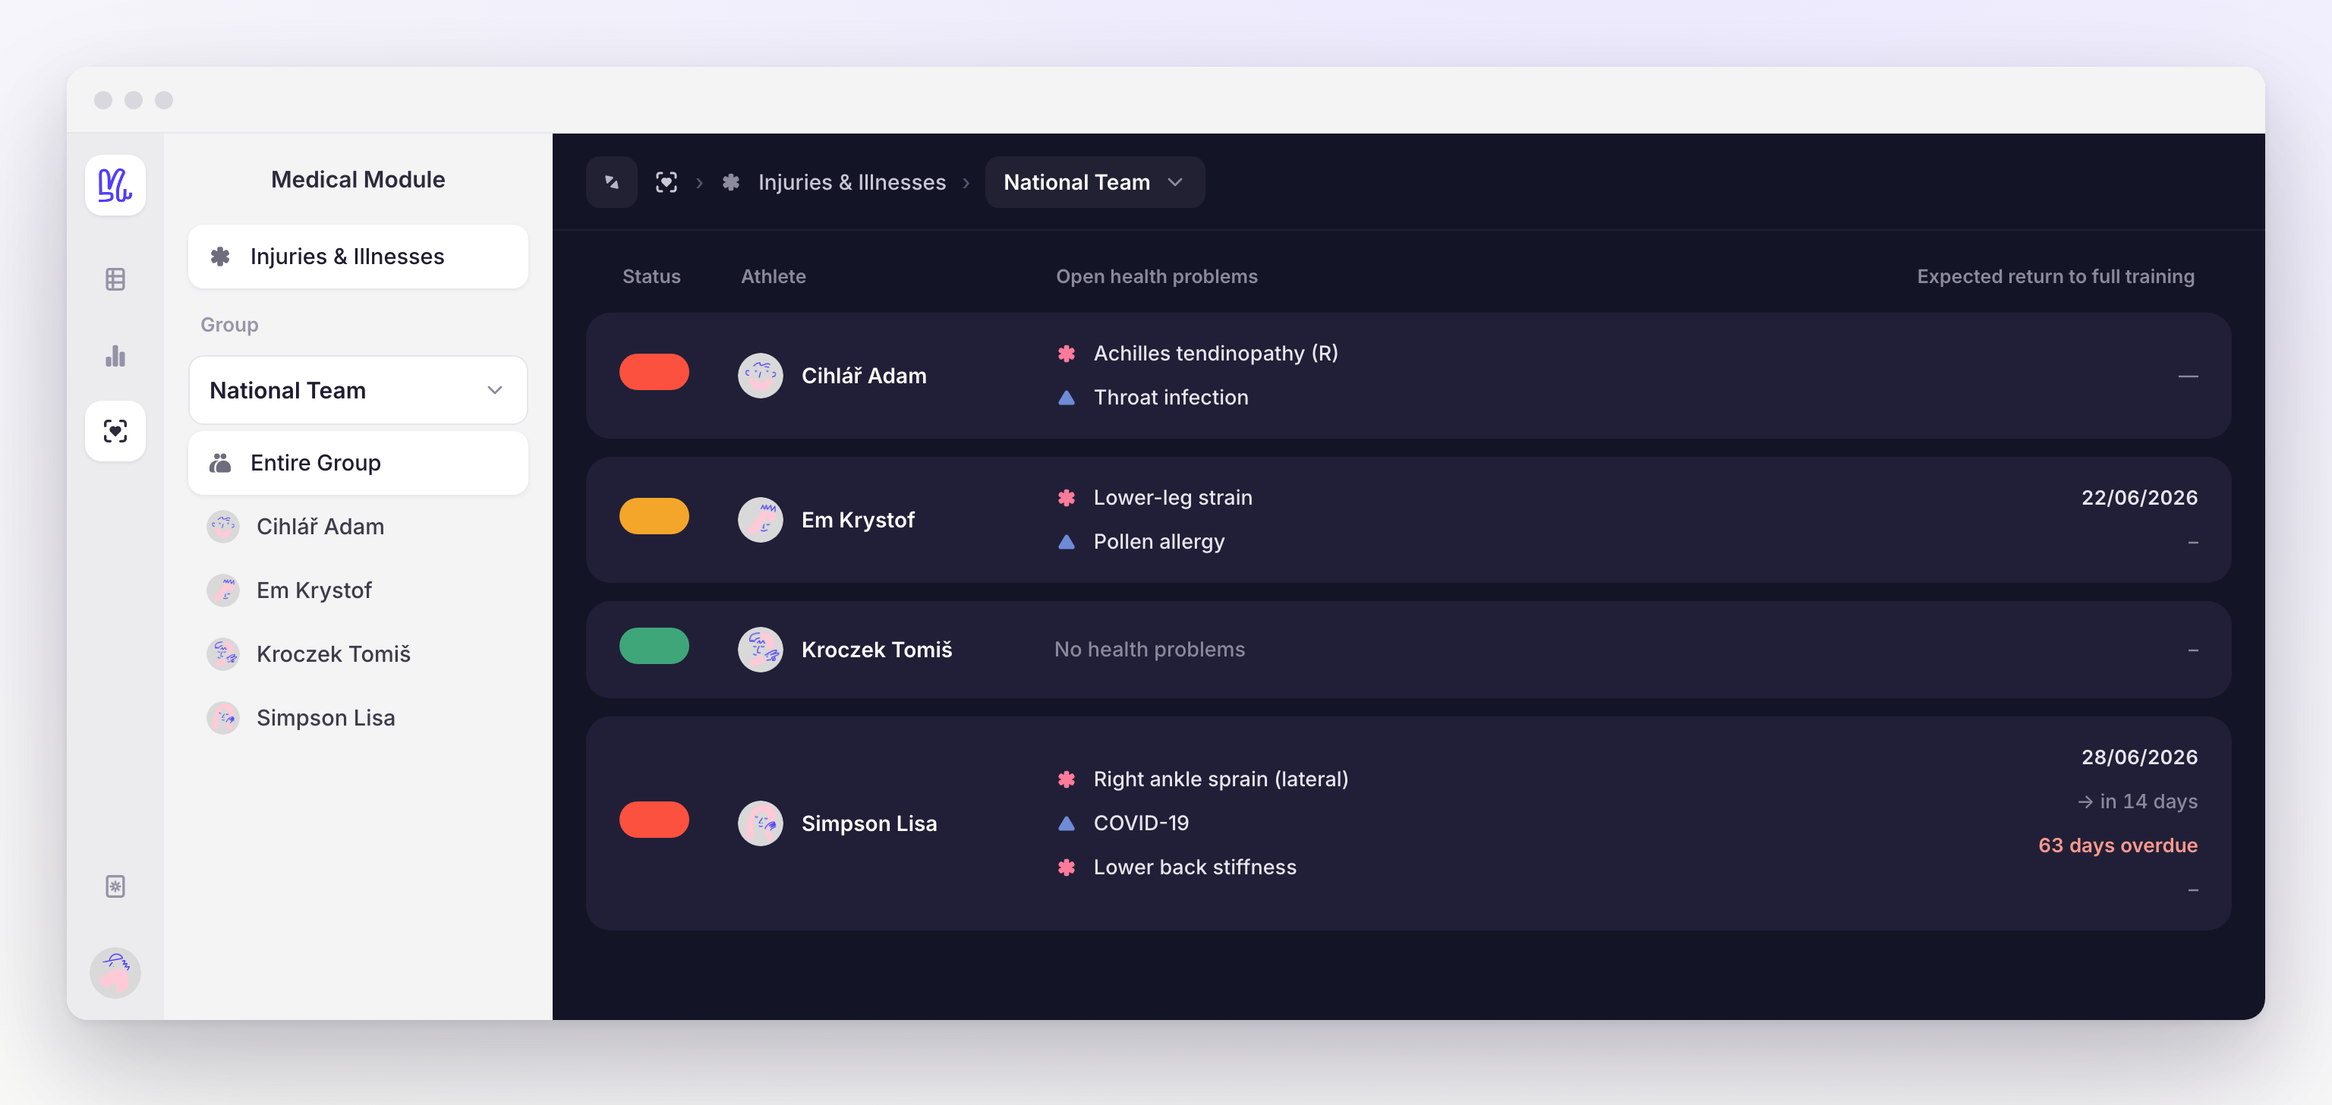
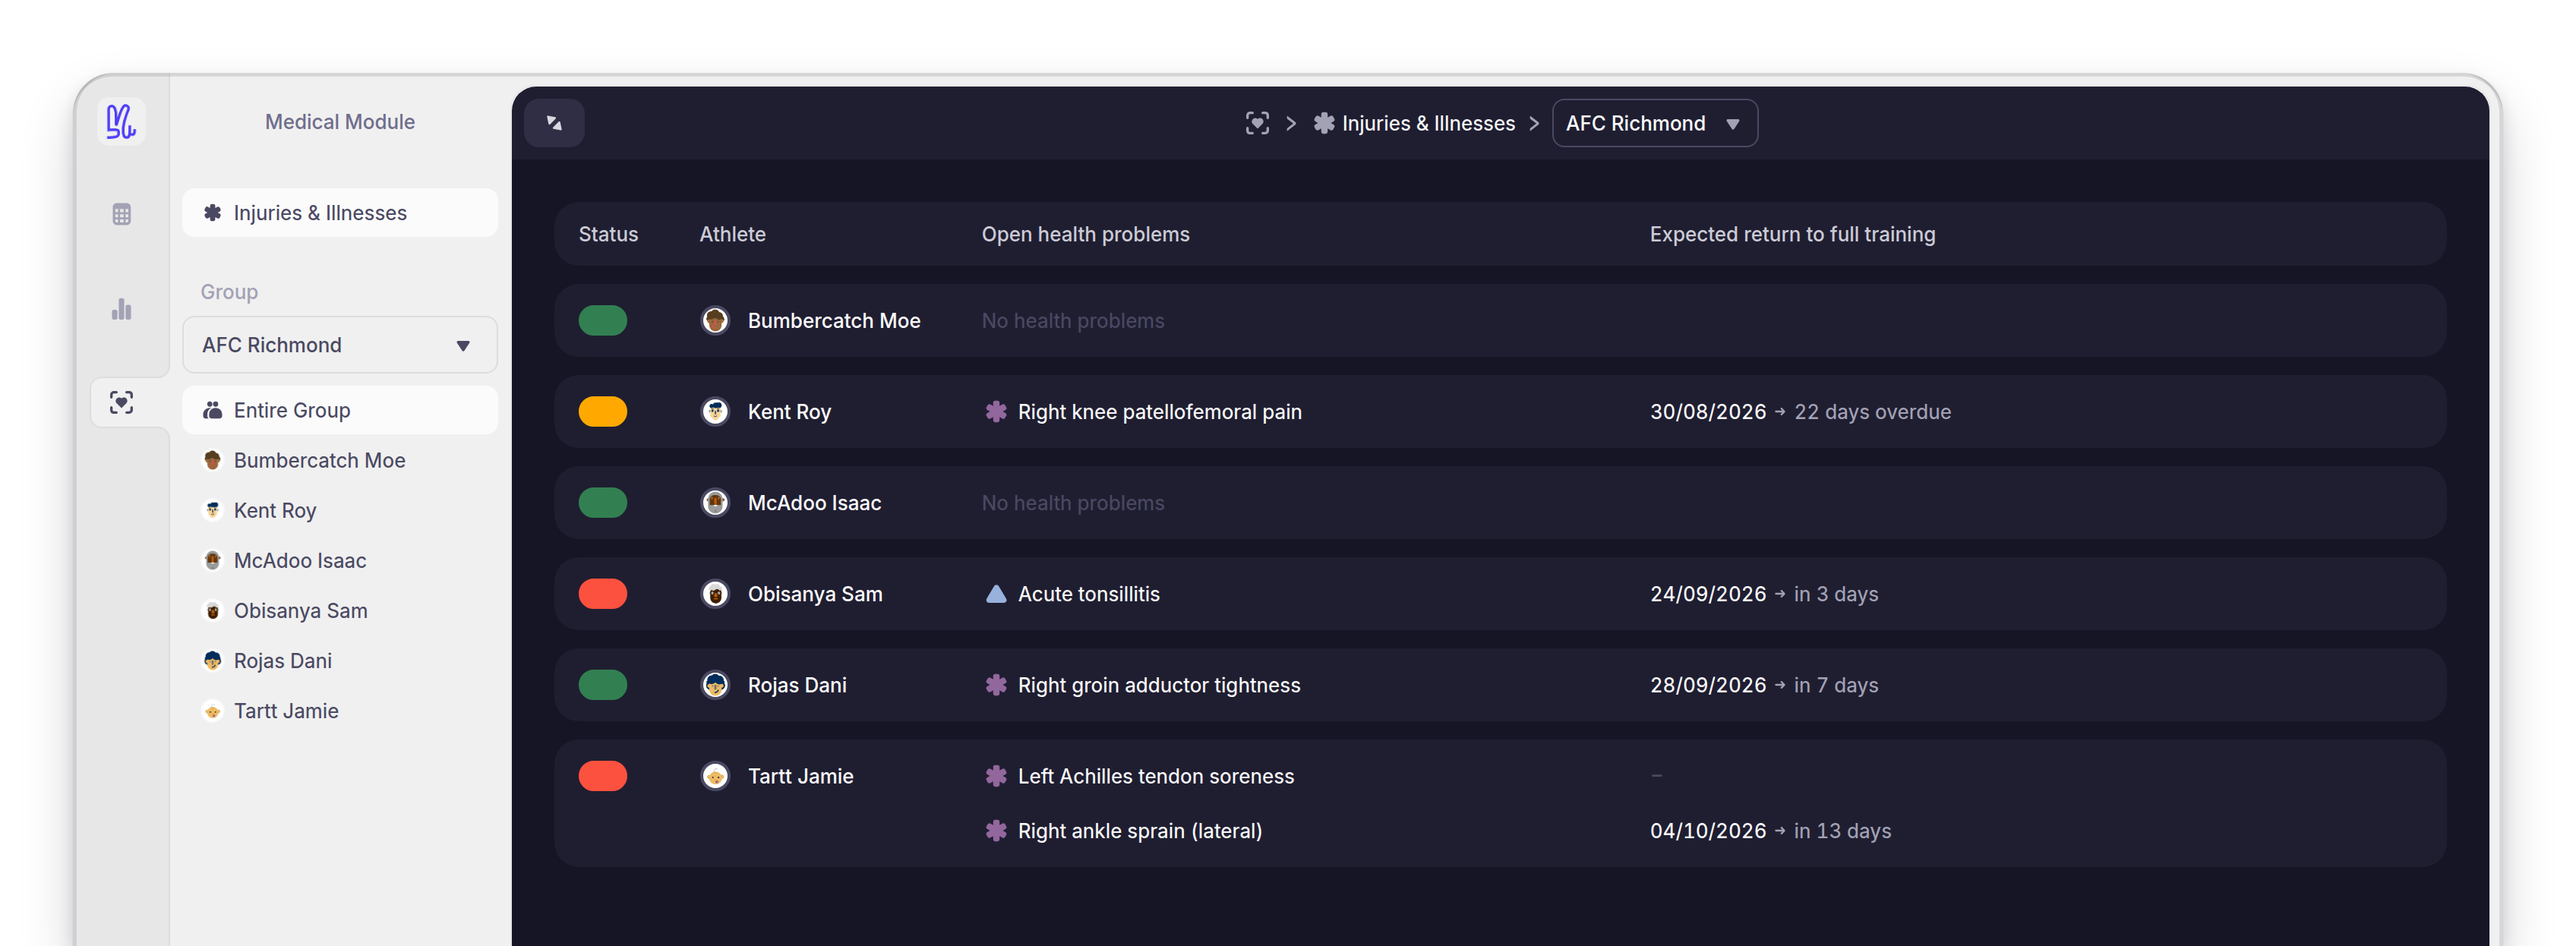
Medical: shoot the page on AFC Richmond, and retire the mockups
Six figures, all real captures of the live app on the seeded squad, replacing
the two rendered mockups that still showed the retired National Team / Simpson
Lisa cast and were opaque RGB rather than the pipeline's transparent-window
exports.

The hero is the filled record — the ankle sprain with its properties, dates,
five circumstances, note, and the OSIICS AL1 diagnosis carrying the auto-tags
right/ankle/ligament — not the group overview. The overview is six rows in a
1600x1000 window, so as a full-window hero it would have been two thirds empty
dark space; as a top-cropped banner in its own section it reads far better,
and it earns its place by showing the whole point of the screen at once: green
and amber and red, Roy 22 days overdue, Jamie carrying the worse of his two
problems, two athletes clear. The diagnosis picker is the figure that makes
the OSIICS section land — searching "ankle sprain" in plain words and getting
ALJ, AL1, AL2 and ALM back, each with its code.

The athlete view is Jamie's own session with a record open: the point is the
sidebar that has no group dropdown, no athlete list and no Entire Group, but a
left crop of that is a tall strip of empty sidebar, so it keeps the window.

Checked as the reader sees it, both themes, and click-to-zoom is crisp (0.70
upscale). Every alt text names what its callouts say, since callout text is
pixels to a screen reader.

Claude-Session: https://claude.ai/code/session_013Pk8HFNmpF1QcWm1cmW39u

diff --git a/docs-guide/module-notes/medical-module.md b/docs-guide/module-notes/medical-module.md
@@ -229,44 +229,36 @@ record (same detail layout, scoped to self; edit where permitted).
 - **→ Planning:** expected-return dates inform what load an athlete can take.
 - Records accumulate → recurring-problem visibility (prevention, not just availability).
 
-## 13. Shot list (images for the docs page)
+## 13. Shot list (images for the docs page) — SHOT 2026-09-21
 
-**Re-cast 2026-09-20 to AFC Richmond** (Ted Lasso coach · Jamie Tartt athlete — see
-`docs-guide/visuals/demo-cast.md`). The two images currently on the page (`overview.png`,
-`record.png`) are **rendered mockups on the retired National Team / Simpson Lisa data**, and
-they are opaque RGB PNGs rather than the transparent-window exports the pipeline produces —
-both are replaced by real captures, not touched up.
+Six figures, all real captures of the live app on the seeded **AFC Richmond** data (coach
+*Ted Lasso*, athlete *Jamie Tartt*). The two rendered mockups that were on the page (old
+National Team / Simpson Lisa, opaque RGB rather than the pipeline's transparent-window
+exports) are replaced, not retouched.
 
-Everything below is specified in code and runnable the moment a session exists:
-`tooling/seed/medical.mjs` (data) + `seed/medical-lib.mjs` (driver) ·
-`tooling/capture/medical.mjs` (click paths, plus `RECON=1` to dump the real `data-cy` hooks) ·
-`tooling/figures/medical.mjs` (anchors, crops, callouts). The seed plan in prose is
-`docs-guide/visuals/demo-data/medical-afc-richmond.md`.
-
-| # | Figure key | Screen / state | Anchor · crop | Callouts | Placed in the page at | Role |
+| # | Figure key | What it shows | Anchor · crop | Callouts | Placed at | Role |
 |---|---|---|---|---|---|---|
-| 1 | `overview` | Entire Group overview (DARK) — Jamie red with two open problems, Roy amber and 21 days overdue, Sam's illness, Dani green, Isaac and Moe clear | `center` · whole window · **hero** | none — the pills already mean something | the lead figure, `<Frame variant="marketing">` | coach |
-| 2 | `record` | The rich open record: Jamie's right ankle sprain, all sections filled | `center` · whole window | none — the prose beside it names the parts | end of *What a record holds* | coach |
-| 3 | `new-record` | A record the moment it's created, still empty | `right` · 2100×2000 · `bleed="left"` | 5 — name, properties, key dates, diagnosis, tool bar | *Log an injury or illness* | coach |
-| 4 | `quick-entry` | The New quick entry modal | `center` · whole window | 4 — entry type, training limitation, files, Save | *Log an injury or illness* (with the `<Steps>`) | coach |
-| 5 | `diagnosis-picker` | The OSIICS picker mid-search ("ankle sprain" typed, results showing) | `right` · 2000×2000 · `bleed="left"` | 3 — search the codelist, OSIICS code, side | *Code the diagnosis* — the figure that carries the OSIICS point | coach |
-| 6 | `record-list` | Jamie's Open (2) / Closed (4) lists | `left` · 1900×2000 · `bleed="right"` | none | *Close a record, and the history it leaves* | coach |
-| 7 | `athlete-view` | Jamie's own session — his records, no group switcher | `left` · 1900×2000 · `bleed="right"` | none | *What athletes see* | athlete |
+| 1 | `record` | Jamie's open ankle sprain: properties, key dates, all five circumstances, note, OSIICS `AL1` with its auto-tags, and the Open/Closed list beside it | `center` · whole window · **hero**, `variant="marketing"` | none — the prose names every part | the lead figure | coach |
+| 2 | `overview` | Entire Group (DARK): green/amber/red spread, Roy 22 days overdue, Jamie's two problems, two clear rows | `top` · 3200×1150 · `bleed="bottom"` | none — the pills already mean something | *Who can train today* | coach |
+| 3 | `quick-entry` | The New entry modal | `bottom-right` · 2100×1300 · `bleed="left top"` | 3 — entry type, training limitation, Save | *Log an injury or illness* | coach |
+| 4 | `diagnosis-picker` | The OSIICS search on "ankle sprain", results showing ALJ / AL1 / AL2 / ALM | `right` · 2000×2000 · `bleed="left"` | 3 — OSIICS code, search in plain words, side | *Code the diagnosis* | coach |
+| 5 | `record-list` | Jamie's Open (2) / Closed (4) with closure dates and checks | `left` · 1400×2000 · `bleed="right"` | none | *Close a record, and the history it leaves* | coach |
+| 6 | `athlete-view` | Jamie's own session — no group dropdown, no athlete list, no Entire Group | `center` · whole window | none | *What athletes see* | athlete |
 
-**Captured but deliberately not published:** `create-picker` (a two-item menu the `<Steps>`
-already describe) and `circumstances-picker` (per-instance codelists — one team's values would
-read as the product's). Both raws are shot, so either can be added by putting its key back in
-`figures/medical.mjs`.
+**Captured but deliberately not published** (reasons in the footer of `figures/medical.mjs`):
+`new-record` (an empty record — the way in here is quick entry, and the hero already shows a
+filled one), `create-picker` (a two-item menu the Steps describe), `circumstances-picker`
+(per-instance codelists; one team's values would read as the product's).
 
-**Open decision to make on the first real raw:** figure 1 is the only hero in the docs that is
-a **dark** screen on the marketing backdrop's indigo. If it reads badly, move `hero: true` to
-`record` and drop `variant="marketing"` from the MDX.
+**Decisions worth keeping:** the hero is the *record*, not the group overview — the overview
+is a six-row table in a 1600×1000 window, so a full-window hero would be two thirds empty
+dark space, and it works far better as a top-cropped banner in its own section. The athlete
+view is the whole window with a record open, because a left crop of "the sidebar that hasn't
+got a group switcher" is a tall strip of nothing.
 
 ## 14. Open questions / TODO(verify)
 - **Which OSIICS version the picker ships.** Version 16 (1 Nov 2025) is the current release;
   `AL1` and the ankle neighbours match it, but that proves nothing about the version. Ask.
-- **Whether the closure date can be edited** after the app stamps it on close. The seeder
-  tries and logs if it can't; the demo set's "closed months ago" dates depend on it.
 - **Whether "Open full detail" in quick entry creates the record**, or only opens it once
   Saved. The page carries a TODO on this.
 - **Whether a closed record can be reopened.** The 2026 changelog *yollanda-starts-the
@@ -275,14 +267,22 @@ a **dark** screen on the marketing backdrop's indigo. If it reads badly, move `h
 - **Whether anything aggregates diagnosis codes** into counts or a report. The docs page
   argues that coding makes records countable; nothing observed actually counts them.
 - **Files** upload: accepted file types / size limits.
-- **The in-app "OSIICS code list" link points at a Google Sheets copy**, not johnorchard.com.
-  Worth asking whether that is deliberate.
-- **Whether athletes see the module on AFC Richmond** — needs Jamie Tartt's session; the
-  page documents both ends of the permission model, so the figure is the open item, not
-  the prose.
 - *Resolved:* quick-entry fields → §6.4 · illness vs injury = diagnosis codelist filtered by
   type → §4 · athlete permissions = genuinely instance-dependent → §3 · Closure date → §6.3 ·
   **Circumstances value lists → §4 (read live off AFC Richmond 2026-09-20)**.
+- *Resolved 2026-09-21, live:*
+  - **The closure date is editable** — the seeder set real historical closure dates on four
+    closed records and they held; the record list shows them on the closed cards.
+  - **An illness record has no Side** on its diagnosis. The select simply isn't rendered, so
+    a side is an injury-only concept. (Cost two diagnoses on the first seeding pass.)
+  - **Athletes on AFC Richmond have the fully-enabled end of the permission model** —
+    Jamie Tartt's own session shows his six records and nothing else, a sidebar that stops at
+    "Injuries & Illnesses" with no Group section, and **both create affordances** (Add record
+    and New quick entry). So this instance is the "athlete can see and edit their own" case.
+  - **The in-app "OSIICS code list" link goes to a Google Sheets copy of the full codelist on
+    purpose** (product owner, 2026-09-21). The *docs* acknowledge OSIICS and link
+    johnorchard.com as the source of the standard; the app's link is the working codelist.
+    Not a bug — don't "fix" it.
 
 ## 15. Source log
 Observed **live** on 2026-06-14, National Team / Simpson Lisa, both coach (Bart Simpson)

diff --git a/docs-guide/visuals/_VISUAL-TODOS.md b/docs-guide/visuals/_VISUAL-TODOS.md
@@ -32,28 +32,22 @@
 ---
 <!-- entries appended per module during live verification -->
 
-## medical — REDO, queued 2026-09-20
-> The two images on the page are **rendered mockups on the retired National Team / Simpson
-> Lisa cast** (opaque RGB, not the pipeline's transparent-window exports), so they are
-> replaced rather than kept. Everything is specified in code and runs as soon as a session
-> exists: `tooling/seed/medical.mjs` + `seed/medical-lib.mjs` (data) · `capture/medical.mjs`
-> (click paths; `RECON=1 node capture.mjs medical` first, to dump the real `data-cy` hooks) ·
-> `figures/medical.mjs` (anchors, crops, callouts — **every callout `at` is a placeholder
-> until re-measured with `measure.mjs`**). Seed plan in prose:
-> [`demo-data/medical-afc-richmond.md`](demo-data/medical-afc-richmond.md); the full shot list
-> with page placement is §13 of `module-notes/medical-module.md`.
->
-> **Blocked on:** a logged-in session for Ted Lasso (coach) and Jamie Tartt (athlete), and the
-> go-ahead to write the seed data into AFC Richmond.
+## medical — DONE (2026-09-21)
+> Shot on the live app from the seeded AFC Richmond data, coach **Ted Lasso** and athlete
+> **Jamie Tartt**. The old rendered mockups on the retired National Team / Simpson Lisa cast
+> are gone. Re-shootable end to end: `tooling/seed/medical.mjs` + `seed/medical-lib.mjs`
+> (data) · `capture/medical.mjs` (click paths; `RECON=1` dumps the hooks) ·
+> `figures/medical.mjs` (anchors, crops, callouts — all measured against the real raws).
+> Seed plan: [`demo-data/medical-afc-richmond.md`](demo-data/medical-afc-richmond.md).
 
-- ☐ `overview` — Entire Group overview (DARK), whole window, **hero** → images/medical/overview.png
-- ☐ `record` — the rich open record (Jamie's ankle sprain), whole window → images/medical/record.png
-- ☐ `new-record` — an empty new record, `right` + 5 callouts → images/medical/new-record.png
-- ☐ `quick-entry` — the New quick entry modal, whole window + 4 callouts → images/medical/quick-entry.png
-- ☐ `diagnosis-picker` — the OSIICS picker mid-search, `right` + 3 callouts → images/medical/diagnosis-picker.png
-- ☐ `record-list` — Jamie's Open/Closed lists, `left` → images/medical/record-list.png
-- ☐ `athlete-view` — Jamie's own session, `left` → images/medical/athlete-view.png
-- (captured but not published: `create-picker`, `circumstances-picker`)
+- ☑ `record` — the filled ankle-sprain record, whole window, **hero** (`variant="marketing"`)
+- ☑ `overview` — Entire Group (DARK), `top` crop, `bleed="bottom"`
+- ☑ `quick-entry` — the New entry modal, `bottom-right`, 3 callouts, `bleed="left top"`
+- ☑ `diagnosis-picker` — the OSIICS search mid-query, `right`, 3 callouts, `bleed="left"`
+- ☑ `record-list` — Jamie's Open (2) / Closed (4), `left`, `bleed="right"`
+- ☑ `athlete-view` — Jamie's own session, whole window
+- Captured but not published: `new-record`, `create-picker`, `circumstances-picker` (reasons
+  in the footer of `figures/medical.mjs`).
 
 ## attendance
 > Classic light top-nav UI — **render later**, all shots ☐. Live-verified 2026-06-15 on the
